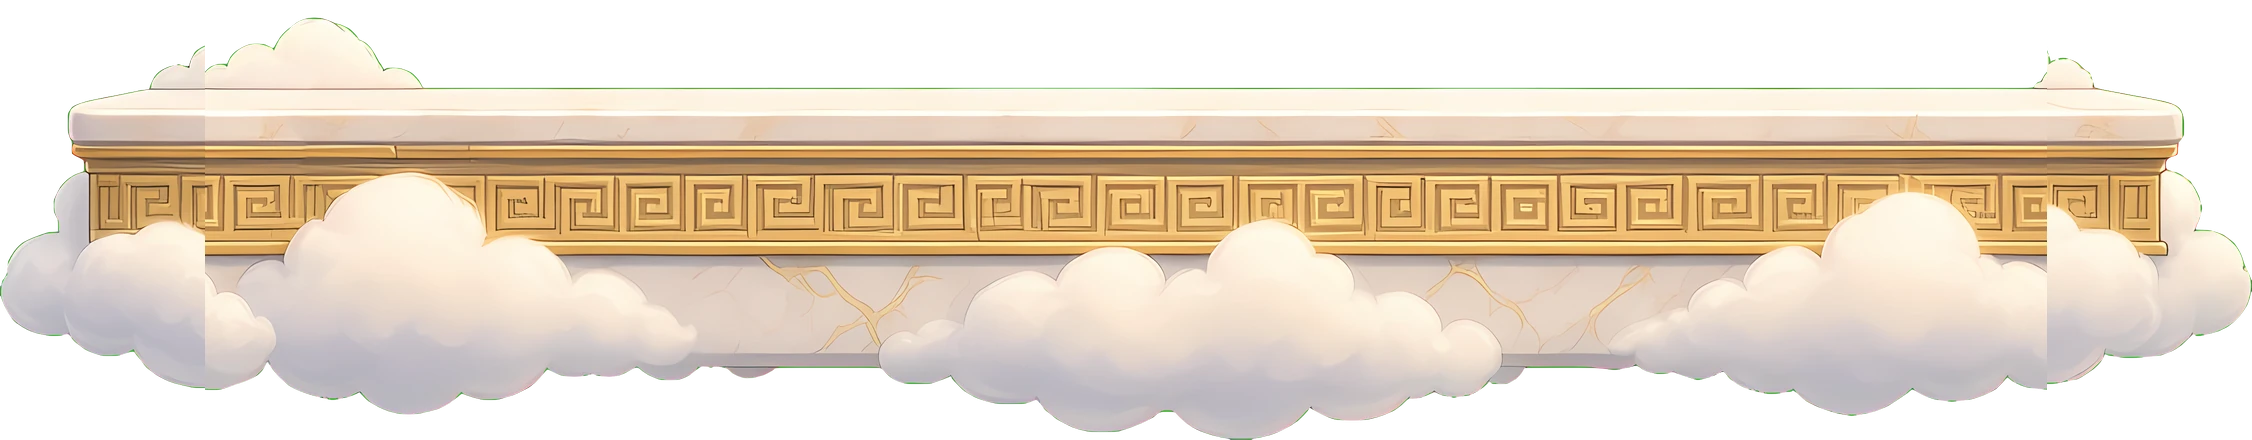
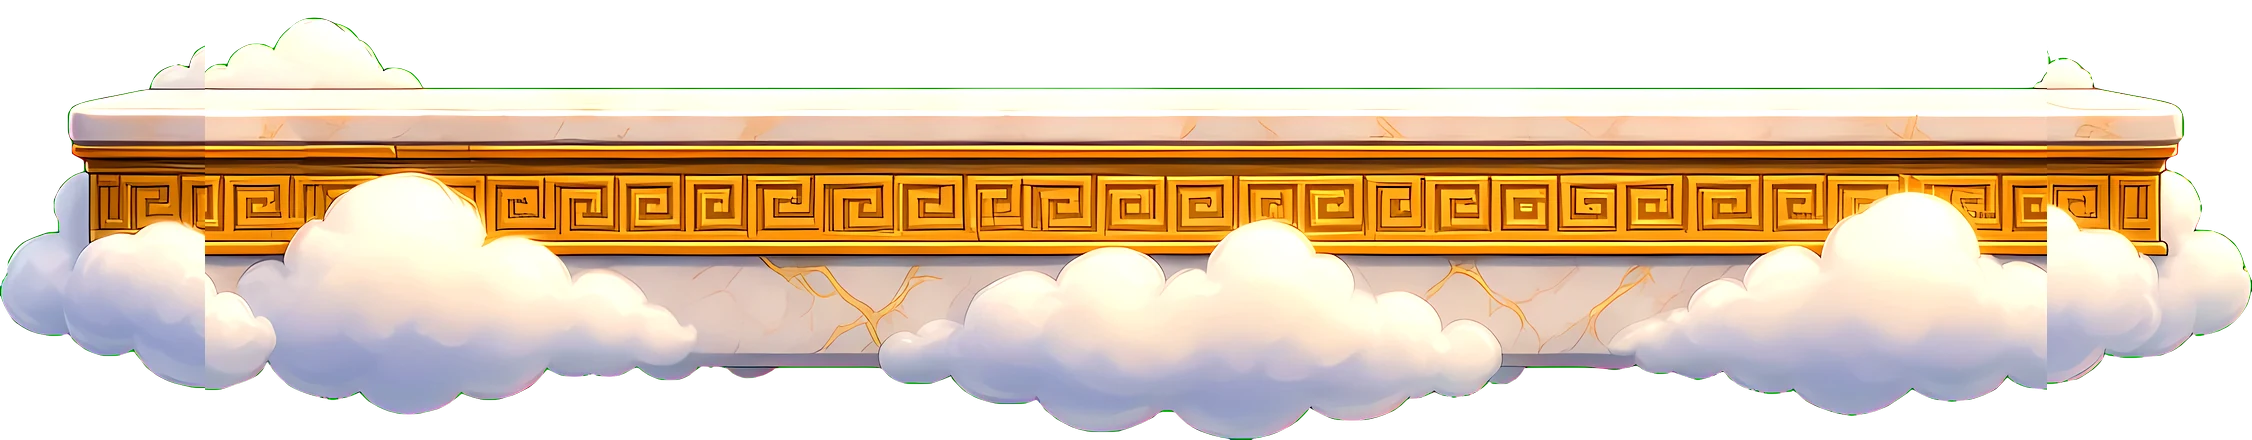
v15: richer W3/W5 ground contrast, W5 glass plates deeper

diff --git a/js/w5.js b/js/w5.js
@@ -4,7 +4,7 @@ const near=(x,d=650)=>x-P.x<d&&P.x-x<240;
 const big=()=>Math.max(52,58/Z);
 const COLS=['#ff8a8a','#ffcc33','#7ff0a2','#7fd3ff','#c58cff','#ffa726'];
 const wall=(gx,v)=>{for(let y=0;y<=9;y++)setT(gx,y,v)};
-function glass(x,y,w,h,lit,a=1){X.save();X.globalAlpha*=a;const g=X.createLinearGradient(x,y,x,y+h);g.addColorStop(0,lit?'rgba(255,243,170,.85)':'rgba(255,255,255,.75)');g.addColorStop(1,lit?'rgba(255,190,90,.55)':'rgba(200,180,255,.5)');X.fillStyle=g;X.shadowColor=lit?'#ffd35a':'#e8dcff';X.shadowBlur=lit?22:10;X.beginPath();X.roundRect(x+2,y+2,w-4,h-6,10);X.fill();X.shadowBlur=0;X.strokeStyle=lit?'#ffb300':'#fff';X.lineWidth=4;X.stroke();X.fillStyle='rgba(255,255,255,.7)';X.fillRect(x+12,y+9,w*.3,5);X.restore()}
+function glass(x,y,w,h,lit,a=1){X.save();X.globalAlpha*=a;const g=X.createLinearGradient(x,y,x,y+h);g.addColorStop(0,lit?'rgba(255,243,170,.9)':'rgba(236,226,255,.9)');g.addColorStop(1,lit?'rgba(255,170,60,.7)':'rgba(140,110,215,.78)');X.fillStyle=g;X.shadowColor=lit?'#ffd35a':'#e8dcff';X.shadowBlur=lit?22:10;X.beginPath();X.roundRect(x+2,y+2,w-4,h-6,10);X.fill();X.shadowBlur=0;X.strokeStyle=lit?'#e89400':'#7b5cc8';X.lineWidth=4;X.stroke();X.fillStyle='rgba(255,255,255,.7)';X.fillRect(x+12,y+9,w*.3,5);X.restore()}
 function puff(x,y,r,a=.85){X.save();X.globalAlpha*=a;X.fillStyle='#fff';for(const [dx,dy,k] of [[-1,0,.7],[0,-.35,1],[1,0,.75],[-.45,.2,.8],[.5,.25,.8]]){X.beginPath();X.arc(x+dx*r,y+dy*r,r*k,0,7);X.fill()}X.restore()}
 // ---- декор: колонны храма
 EX.temple={setup(o){o.nc=1},draw(o){for(const x0 of o.xs){const x=x0*T+30;if(x<CAM.x-120||x>CAM.x+WV+120)continue;const top=600-(o.h||250);X.save();
